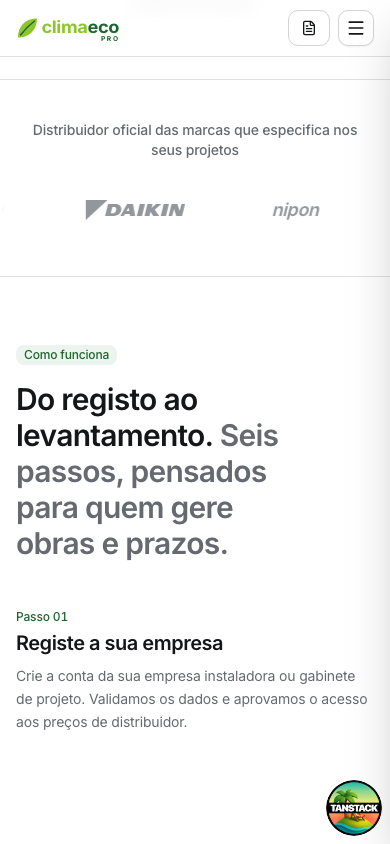
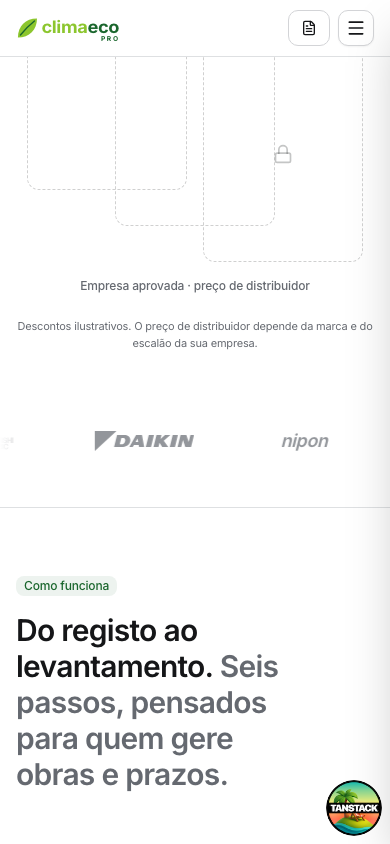
Landing: hero flows into the brand strip
Drop the divider under the hero and the marquee caption; the belt keeps
only its bottom divider.

diff --git a/client-frontend/src/components/landing/brand-marquee.tsx b/client-frontend/src/components/landing/brand-marquee.tsx
@@ -96,14 +96,8 @@ export function BrandMarquee() {
   const itens = [...MARCAS, ...MARCAS]
 
   return (
-    <section id="marcas" className="scroll-mt-20 border-b py-10 md:py-12">
-      <div className="mx-auto max-w-6xl px-4 sm:px-6">
-        <p className="text-center text-sm font-medium text-muted-foreground">
-          Distribuidor oficial das marcas que especifica nos seus projetos
-        </p>
-      </div>
-
-      <div className="marquee relative mt-6 overflow-hidden [mask-image:linear-gradient(to_right,transparent,black_12%,black_88%,transparent)]">
+    <section id="marcas" className="scroll-mt-20 border-b pb-10 md:pb-12">
+      <div className="marquee relative overflow-hidden [mask-image:linear-gradient(to_right,transparent,black_12%,black_88%,transparent)]">
         <div className="marquee-track flex w-max items-center">
           {itens.map((marca, i) => {
             const duplicado = i >= MARCAS.length

diff --git a/client-frontend/src/components/landing/hero.tsx b/client-frontend/src/components/landing/hero.tsx
@@ -11,7 +11,7 @@ import { PriceReveal } from "./price-reveal"
  */
 export function Hero() {
   return (
-    <section className="relative overflow-hidden border-b">
+    <section className="relative overflow-hidden">
       <div className="mx-auto flex max-w-3xl flex-col items-center px-4 pt-16 text-center sm:px-6 md:pt-24">
         <a
           href="#marcas"
